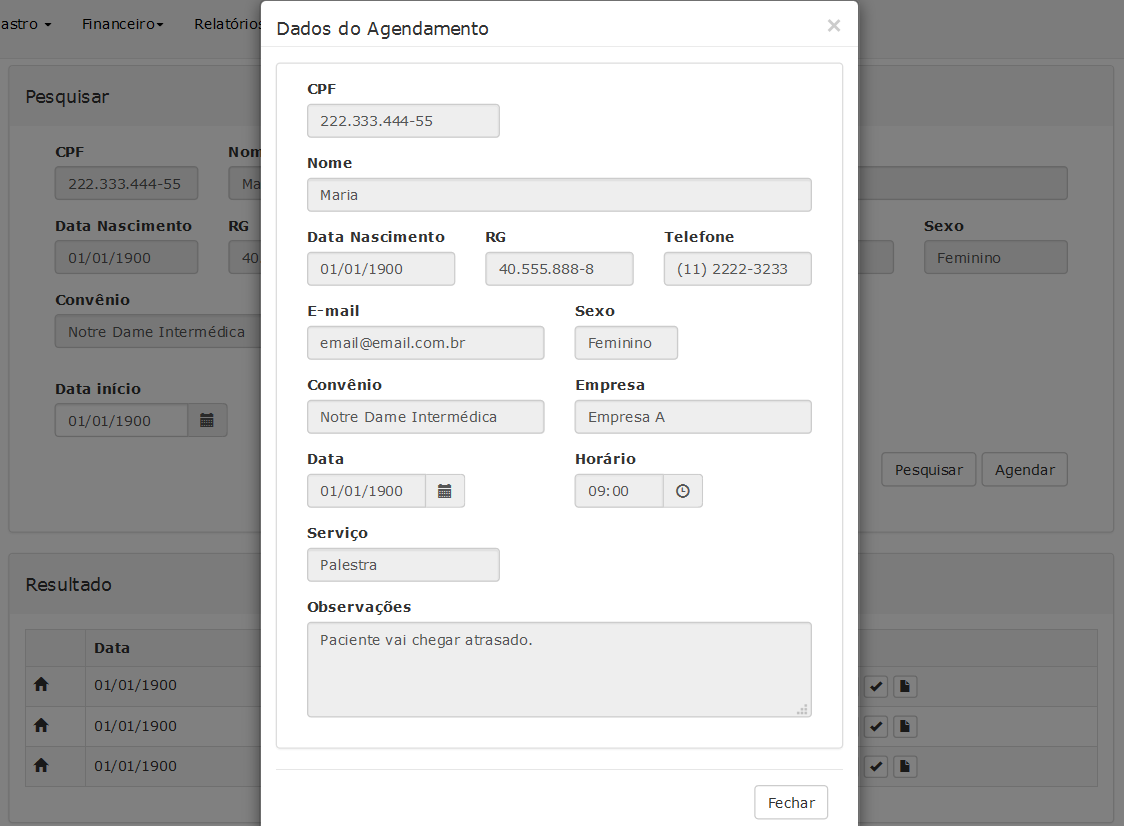
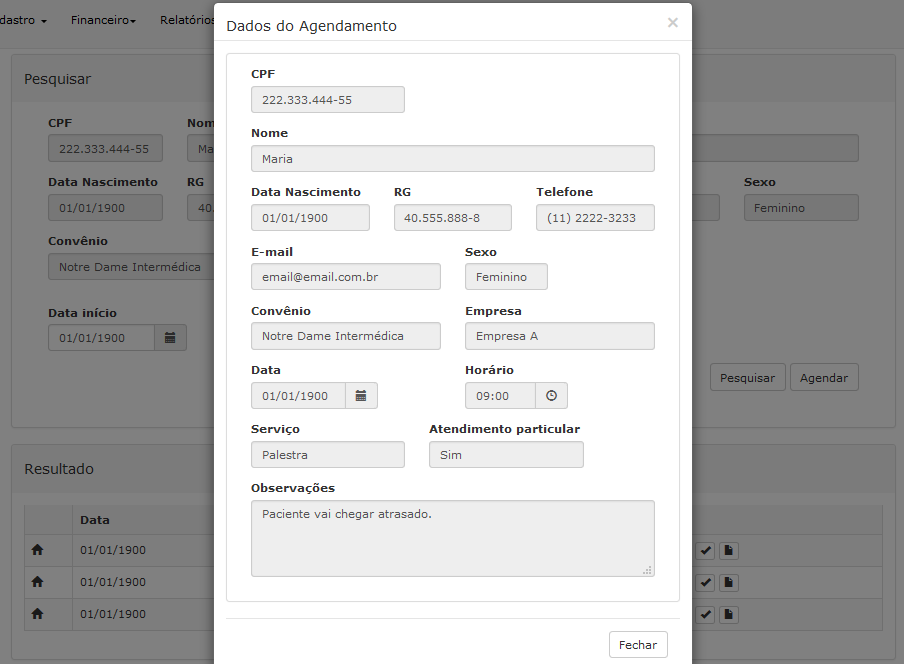
tela de consulta agenda
tela de consulta agenda

diff --git a/TCC/5º Encontro/Prototipo/pages/AgendaPaciente.html b/TCC/5º Encontro/Prototipo/pages/AgendaPaciente.html
@@ -243,6 +243,10 @@
                                         <label for="cnpjEmpresa">Serviço</label>
                                         <input type="text" class="form-control input-small" id="cnpjEmpresa" aria-describedby="cnpjEmpresaHelp" value="Palestra" />
                                     </div>
+                                    <div class="form-group col-md-5">
+                                        <label for="cnpjEmpresa">Atendimento particular</label>
+                                        <input type="text" class="form-control input-small" id="cnpjEmpresa" aria-describedby="cnpjEmpresaHelp" value="Sim" />
+                                    </div>
                                     <div class="form-group col-md-12">
                                         <label>Observações</label>
                                         <textarea class="form-control" rows="3">Paciente vai chegar atrasado.</textarea>
